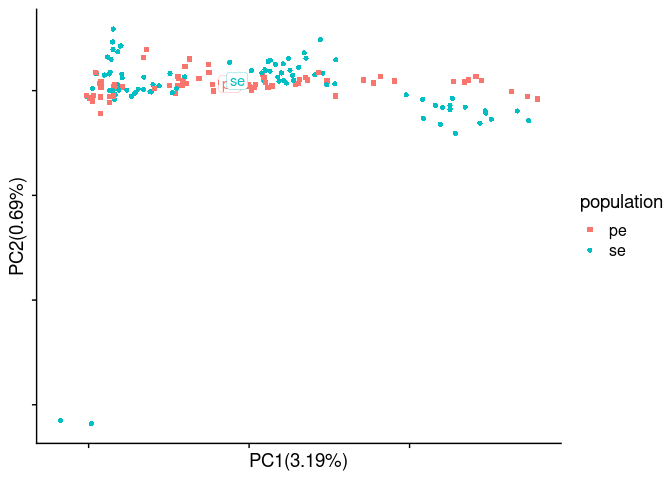
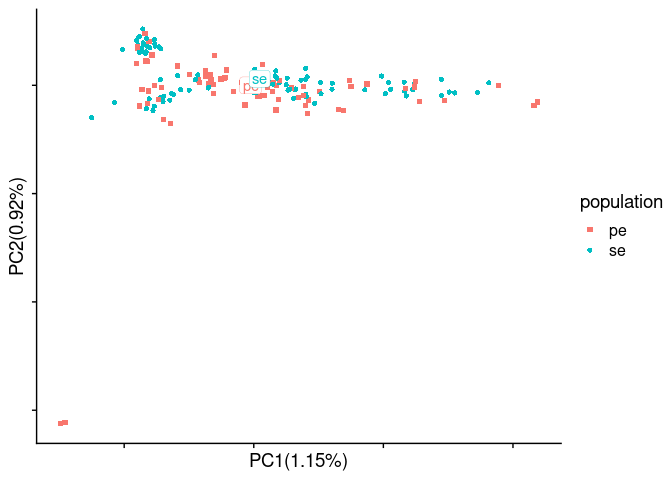
updated comparison of ANGSD vs. PCAngsd

diff --git a/markdown/depth.md b/markdown/depth.md
@@ -226,37 +226,43 @@ cowplot::plot_grid(p1, p2, p3, ncol = 1, rel_heights = c(1.2, 1, 1), labels=c("A
 
 ``` bash
 nohup python2 /workdir/programs/pcangsd/pcangsd.py \
--beagle /workdir/batch-effect/angsd/bam_list_realigned_private_snps.beagle.gz \
+-beagle /workdir/batch-effect/angsd/bam_list_realigned_depth_ratio_filtered_snps.beagle.gz \
 -minMaf 0.05 \
 -threads 8 \
--o /workdir/batch-effect/angsd/bam_list_realigned_private_snps_pcangsd \
-> /workdir/batch-effect/nohups/run_pcangsd_private_snps.nohup &
+-o /workdir/batch-effect/angsd/bam_list_realigned_depth_ratio_filtered_snps_pcangsd \
+> /workdir/batch-effect/nohups/run_pcangsd_depth_ratio_filtered_snps.nohup &
 ```
 
 #### Supplementary Figure: PCA with PCAngsd
 
 ``` r
-pca_angsd_select_pops <- filter(pca_pcangsd, population %in% c("KNG2011", "QQL2011", "ITV2011"))
-pca_plot <- pca_angsd_select_pops %>%
+pca_combined <- bind_rows(bind_cols(pca_angsd, type="PCA with ANGSD"), 
+                          bind_cols(pca_pcangsd, type="PCA with PCAngsd")) %>%
+  mutate(type=fct_relevel(type, c("PCA with ANGSD", "PCA with PCAngsd"))) %>%
+  mutate(batch=ifelse(data_type=="se", "HiSeq-125SE", "NextSeq-150PE")) %>%
+  filter(! (individual %in% c("UUM2010_036", "UUM2010_038") & type == "PCA with ANGSD")) %>%
+  filter(! (individual %in% c("UUM2010_026", "UUM2010_030") & type == "PCA with PCAngsd"))
+pca_plot <- bind_rows(pca_combined, mutate(pca_combined, population="all pops")) %>%
   left_join(rename_pop) %>%
+  mutate(population_new=ifelse(is.na(population_new), "all pops", population_new)) %>% 
+  mutate(population_new=fct_relevel(population_new, c(str_c("pop ", 1:9), "all pops"))) %>%
   ggplot(aes(x=PC1, y=PC2)) +
-  geom_point(data=pca_pcangsd, color="grey", size=0.5) +
-  geom_point(aes(color=batch), size=2) +
+  geom_point(data=pca_combined, color="grey", size=0.3) +
+  geom_point(aes(color=batch), size=1.5) +
   scale_color_viridis_d(begin=0.25, end=0.75) +
-  facet_grid(population_new~.) +
-  ylim(NA, 0.15) +
-  xlim(-0.15, NA) +
+  facet_grid(population_new~type) +
   theme_cowplot() +
   theme(axis.text = element_blank(),
         axis.ticks = element_blank(),
-        panel.border = element_rect(colour="black",size=0.5),
-        legend.position = c(0.55, 0.94),
+        panel.border = element_rect(colour="black",size=0.8),
+        legend.position = c(0.72, 0.99),
         legend.key.size = unit(0.5, 'lines'),
-        strip.text.x = element_text(face = "bold", size=20),
-        legend.key = element_rect(fill = "white", colour = "black"))
+        legend.text = element_text(size=8),
+        strip.text.y = element_text(size=10),
+        strip.text.x = element_text(size=10),
+        legend.key = element_rect(fill = "white", colour = "black"),
+        legend.title = element_blank())
 pca_plot
 ```
-
-    ## Warning: Removed 6 rows containing missing values (geom_point).
 
 ![](depth_files/figure-gfm/unnamed-chunk-8-1.png)<!-- -->
